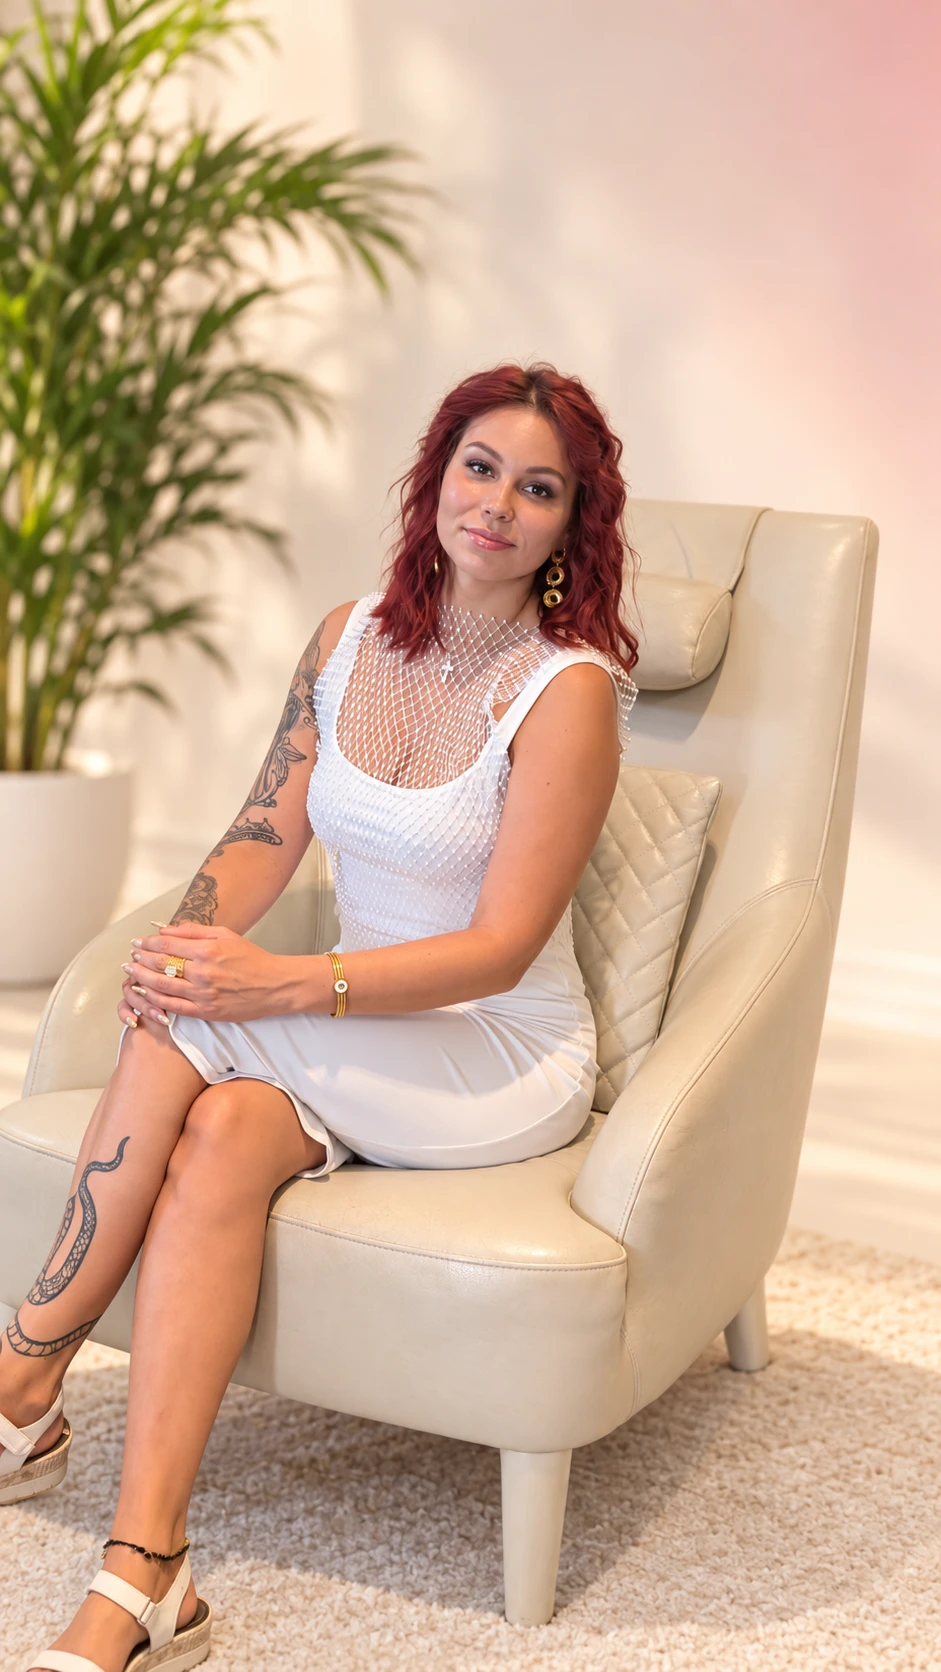
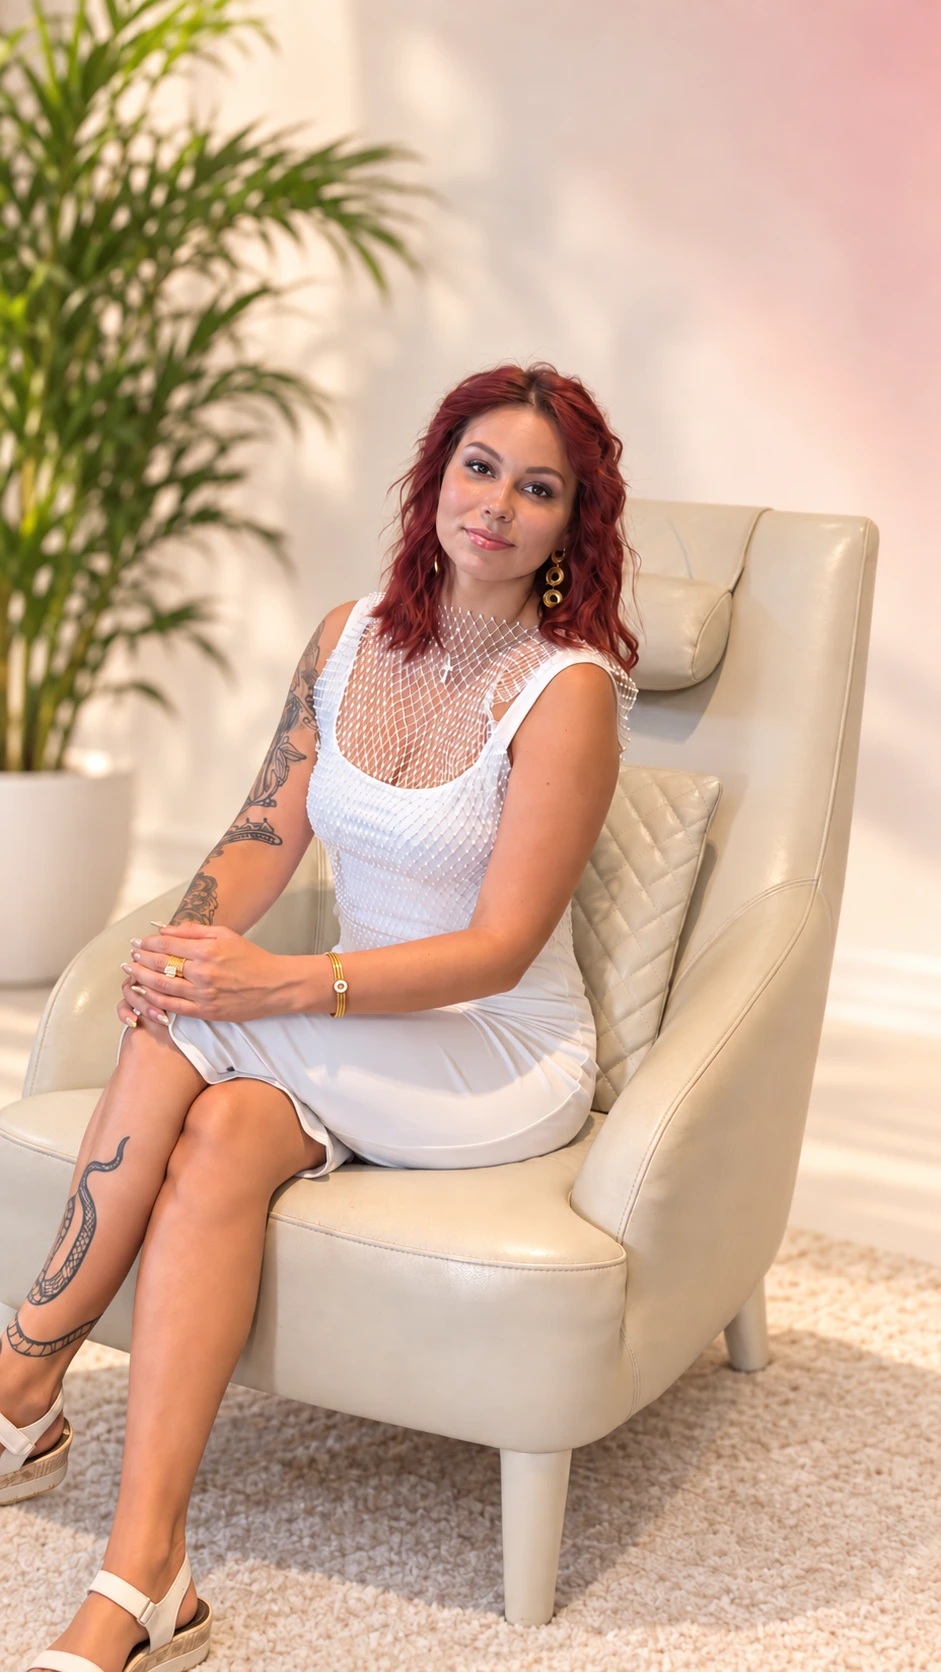
Retouch portrait, unclip analysis layout and add general email contact

diff --git a/analyse.html b/analyse.html
@@ -21,14 +21,14 @@
 <link rel="preload" href="assets/fonts/dm-sans-700.woff2" as="font" type="font/woff2" crossorigin>
 <link rel="preload" href="assets/fonts/playfair-display-600.woff2" as="font" type="font/woff2" crossorigin>
 <link rel="stylesheet" href="styles.css">
-<link rel="stylesheet" href="analysis.css">
+<link rel="stylesheet" href="analysis.css?v=20261005-unclip">
 <link rel="stylesheet" href="site-quality.css?v=20260905-5" data-jj-quality-css>
 </head>
 <body class="analysis-body">
 <div class="analysis-shell">
 <header class="analysis-topbar"><div class="container analysis-topbar-inner"><a aria-label="Zur JJ-Media Startseite" class="logo jj-master-logo-link" href="index.html"><img class="jj-master-logo" src="assets/brand/jj-media-logo-master.webp" alt="JJ-Media" width="160" height="113" decoding="async"></a><div class="analysis-safe"><i aria-hidden="true">✓</i><span>Kostenlos · unverbindlich · persönlich geprüft</span></div></div></header>
 <main class="analysis-main" id="jj-main-content"><div class="container analysis-layout">
-<aside class="analysis-intro"><div><span class="analysis-value">Kostenlose persönliche Analyse</span><h1>Dein Social Media hat mehr <span class="serif">Potenzial.</span></h1><p>Jessica analysiert deinen Auftritt persönlich und zeigt dir, wo Sichtbarkeit, Vertrauen oder Anfragen verloren gehen.</p><div class="analysis-benefits"><span><i aria-hidden="true">✓</i> Klarer Blick auf Profil, Content und Positionierung</span><span><i aria-hidden="true">✓</i> Konkrete Hebel statt allgemeiner Tipps</span><span><i aria-hidden="true">✓</i> Kein automatischer Standardreport</span></div></div><div class="analysis-person"><img alt="Jessica Just von JJ-Media" src="assets/jessica/jessica-hero-premium.webp" decoding="async"><div><strong>Persönlich geprüft von Jessica Just</strong><span>Social Media Managerin · JJ-Media</span></div></div></aside>
+<aside class="analysis-intro"><div><span class="analysis-value">Kostenlose persönliche Analyse</span><h1>Dein Social Media hat mehr <span class="serif">Potenzial.</span></h1><p>Jessica analysiert deinen Auftritt persönlich und zeigt dir, wo Sichtbarkeit, Vertrauen oder Anfragen verloren gehen.</p><div class="analysis-benefits"><span><i aria-hidden="true">✓</i> Klarer Blick auf Profil, Content und Positionierung</span><span><i aria-hidden="true">✓</i> Konkrete Hebel statt allgemeiner Tipps</span><span><i aria-hidden="true">✓</i> Kein automatischer Standardreport</span></div></div><div class="analysis-general-contact"><a href="mailto:service@jj-media.info">Allgemeine Anfrage per E-Mail</a><a href="contact.html">Kontakt zu Jessica</a></div><div class="analysis-person"><img alt="Jessica Just von JJ-Media" src="assets/jessica/jessica-hero-premium.webp" decoding="async"><div><strong>Persönlich geprüft von Jessica Just</strong><span>Social Media Managerin · JJ-Media</span></div></div></aside>
 <section aria-labelledby="funnel-title" class="funnel-card">
 <div class="funnel-progress-row"><span class="funnel-progress-copy">Frage <b data-current-step>1</b> von 5</span><div aria-hidden="true" class="funnel-progress"><span data-progress></span></div></div>
 <form class="funnel-form" id="analysis-form" novalidate><input aria-label="Dieses Feld leer lassen" autocomplete="off" class="honeypot" name="website_confirm" tabindex="-1" type="text">

diff --git a/analysis.css b/analysis.css
@@ -72,3 +72,14 @@
 .analysis-topbar .jj-master-logo-link{display:inline-flex;align-items:center;justify-content:flex-start;flex:0 0 55px;width:55px;height:38px;line-height:1}
 .analysis-topbar .jj-master-logo{display:block;width:auto;height:38px;max-width:55px;object-fit:contain;object-position:center}
 @media(max-width:620px){.analysis-topbar .jj-master-logo-link{flex-basis:47px;width:47px;height:33px}.analysis-topbar .jj-master-logo{height:33px;max-width:47px}}
+/* Let all analysis content remain reachable instead of clipping to viewport height. */
+html,body.analysis-body{height:auto;min-height:100%;overflow:auto}
+.analysis-shell{height:auto;min-height:100dvh;grid-template-rows:auto 1fr auto}
+.analysis-main,.analysis-main>.container,.analysis-layout{height:auto;min-height:0}
+.analysis-intro,.funnel-card{height:auto;min-height:0;overflow:visible}
+.analysis-intro h1{font-size:clamp(2.6rem,4.3vw,4.8rem);overflow-wrap:normal;word-break:normal}
+.funnel-step.active{overflow:visible}
+.analysis-footer{display:block}
+@media(max-width:1100px){.analysis-layout{grid-template-columns:1fr}.analysis-intro{padding:28px}.analysis-intro h1{max-width:850px}.analysis-person{margin-top:24px}}
+.analysis-general-contact{display:flex;flex-wrap:wrap;gap:12px;margin-top:24px}
+.analysis-general-contact a{display:inline-flex;align-items:center;padding:12px 18px;border:1px solid rgba(255,255,255,.5);border-radius:30px;color:white;text-decoration:none;font-weight:600}

diff --git a/app.js b/app.js
@@ -28,7 +28,7 @@
 
   const isLegal=/\/(datenschutz|impressum|agb|barrierefreiheit)(\.html)?\/?$/i.test(location.pathname);
   const bootGrowth=()=>{
-    load('portfolio-motion.js?v=20261004-2');
+    load('portfolio-motion.js?v=20261005-contact');
     if(isLegal)return;
     load('growth-layer-v2.js?v=20261004-ugc22',()=>load('privacy-controls.js?v=20260918-1',()=>load('social-audit-bridge.js?v=20261004-visible')));
   };
@@ -42,5 +42,5 @@
     }
   };
 
-  load('brand-runtime.js?v=20260905-4',()=>load('site-quality.js?v=20260905-6',()=>load('viral-nav.js?v=20261004-ugc2',()=>load('insights-bridge.js?v=20260901-1',()=>{const css=document.createElement('link');css.rel='stylesheet';css.href='content-review.css?v=20261004-small-logo';document.head.appendChild(css);bootPage()}))));
+  load('brand-runtime.js?v=20260905-4',()=>load('site-quality.js?v=20260905-6',()=>load('viral-nav.js?v=20261004-ugc2',()=>load('insights-bridge.js?v=20260901-1',()=>{const css=document.createElement('link');css.rel='stylesheet';css.href='content-review.css?v=20261005-contact';document.head.appendChild(css);bootPage()}))));
 })();

diff --git a/portfolio-motion.js b/portfolio-motion.js
@@ -7,6 +7,10 @@
     brand.setAttribute('aria-label', 'JJ Media – zur Startseite');
     brand.innerHTML = '<span class="footer-brand-crop"><img src="assets/brand/jj-media-uploaded.png" alt="JJ Media Social Media Management" loading="lazy"><img class="footer-brand-type" src="assets/brand/jj-media-uploaded.png" alt="" aria-hidden="true" loading="lazy"></span>';
     footer.querySelector('.container')?.prepend(brand);
+    const contact = document.createElement('div');
+    contact.className = 'footer-general-contact';
+    contact.innerHTML = '<a class="btn" href="mailto:service@jj-media.info">E-Mail schreiben</a><a class="btn" href="contact.html">Allgemeine Anfrage</a>';
+    footer.querySelector('.footer-main')?.after(contact);
   }
   const isShowcase = document.querySelector('.hero-premium') || /\/services(?:\.html)?\/?$/.test(location.pathname);
   if (footer && isShowcase && !document.querySelector('.post-flow')) {

diff --git a/content-review.css b/content-review.css
@@ -120,3 +120,5 @@ footer .footer-brand-crop img{width:332px!important;left:-76px;top:-51px}
 
 .portrait-frame img[src*="jessica-ivory-portrait"]{object-position:center 35%}
 .about-image img[src*="jessica-ivory-portrait"]{width:100%;height:100%;object-fit:cover;object-position:center 35%;aspect-ratio:4/5}
+
+.footer-general-contact{display:flex;gap:14px;flex-wrap:wrap;justify-content:center;margin-top:24px}

diff --git a/docs/change-history/20261005-analysis-contact-retouch.md b/docs/change-history/20261005-analysis-contact-retouch.md
@@ -1,0 +1,7 @@
+# Analyse, allgemeiner Kontakt und Porträt-Retusche
+Ausgangsstand: b51374f720c2b00b08df6fcc17c0de936f6f4df4
+1. Analyse-Seite: starre Bildschirmhöhe und Überlaufbegrenzung entfernt; alle Inhalte scrollbar. Spalten unter 1100 Pixeln gestapelt, Überschrift kleiner.
+2. Direkte E-Mail und allgemeiner Kontakt auf Analyse-Seite sowie Footer ergänzt. WhatsApp noch offen: sichtbare Nummer +49 172 7142638 stimmt nicht mit tel-Link +49 1556 0803133 überein; keine Nummer geraten.
+3. Vom Nutzer ausdrücklich gewünschte Bild-Retusche: Lachfalten dezent reduziert und Fußkettchen entfernt. Ausgewähltes Bild als genaue Quelle verwendet.
+4. Porträt-Asset auf Startseite und Über mich ersetzt; ursprüngliche Bildfassung in vorausgehendem Commit erhalten.
+Rollback: betroffene Quellen auf Ausgangsstand zurücksetzen; Porträt aus vorherigem Commit wiederherstellen. Nur Vorschau veröffentlicht.
